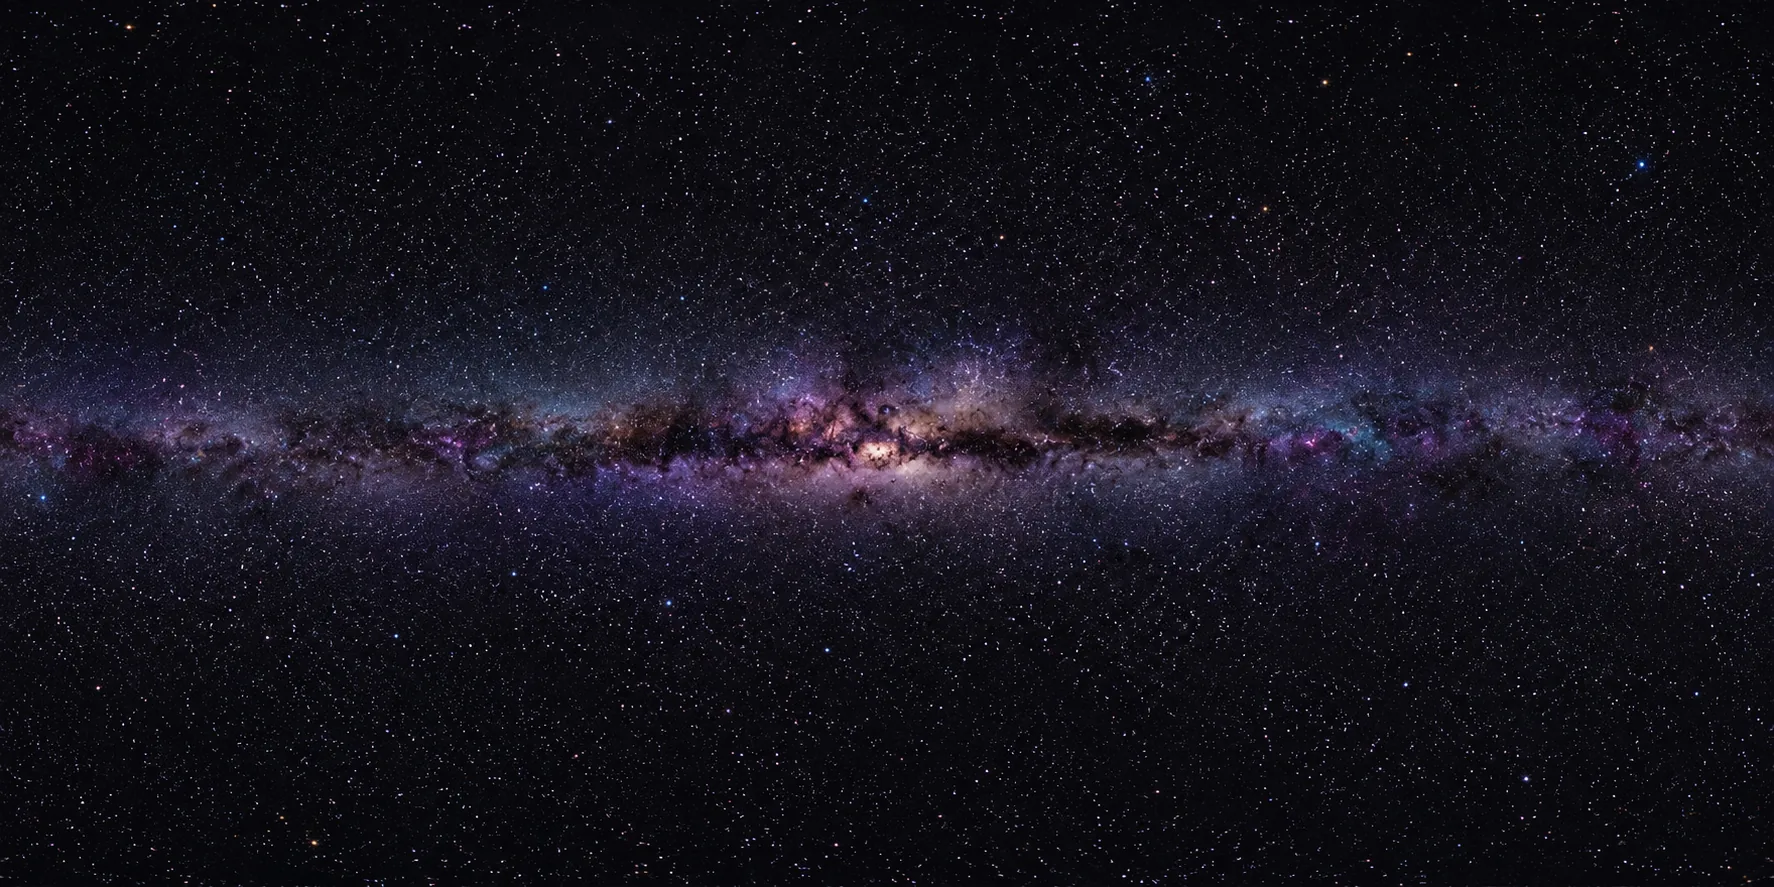
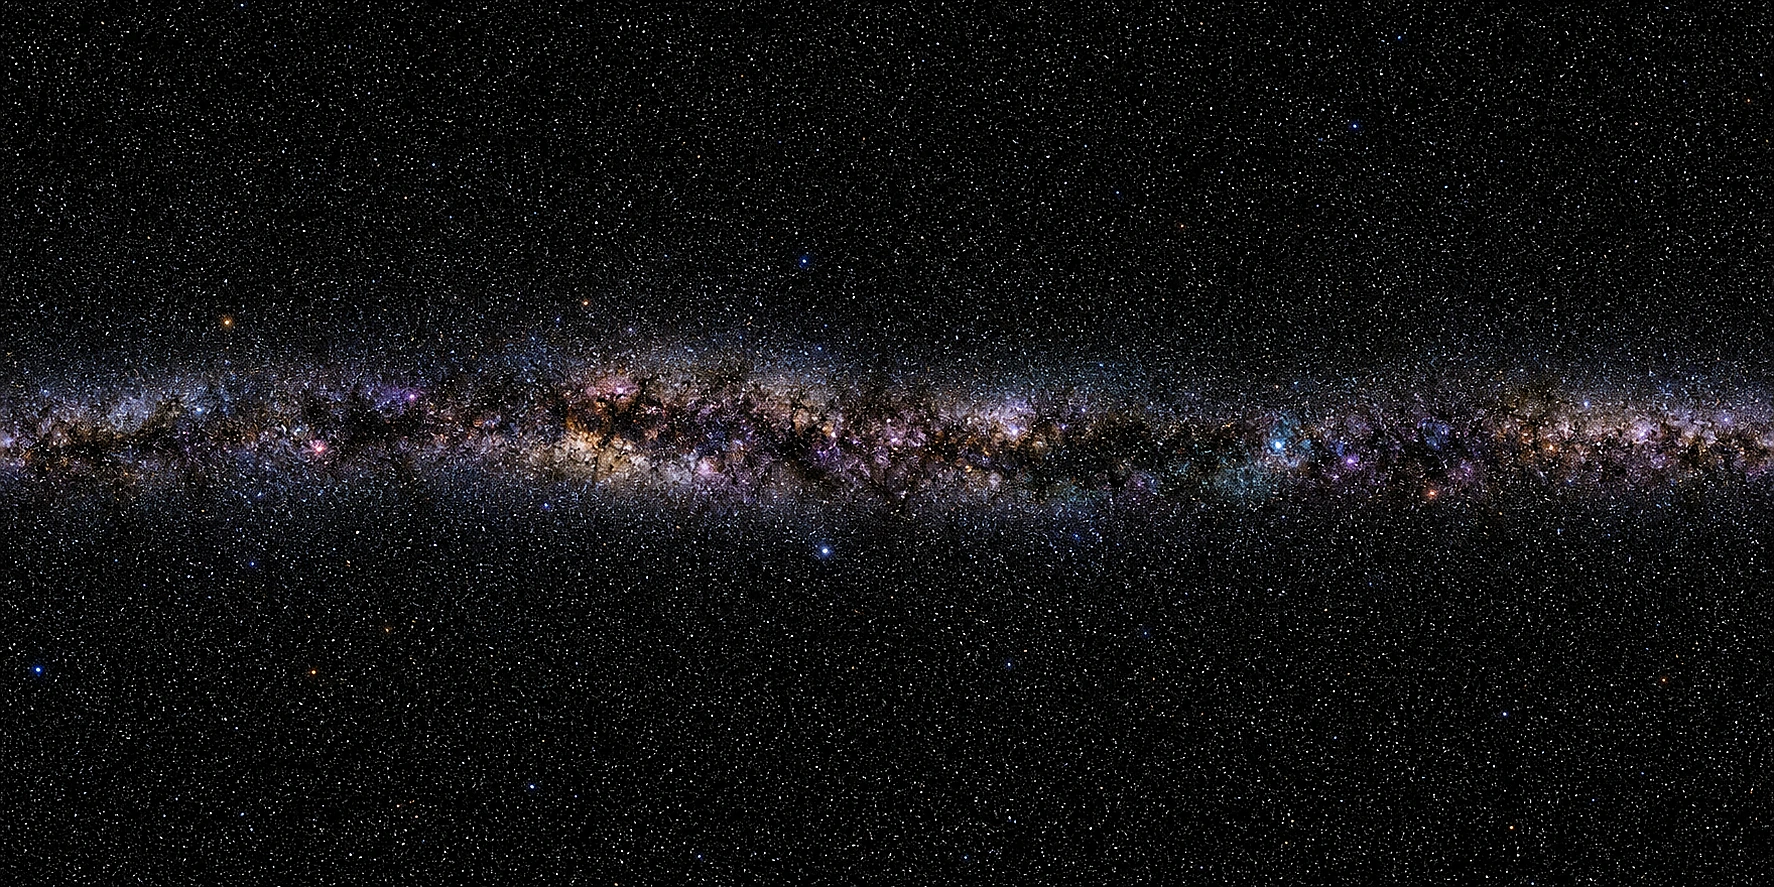
Sharper System background: new HD skybox + live pinpoint star layer
Denser astrophotography panorama (sharpened, gentler compression at
q92) plus 1600 crisp tinted point stars rendered at native display
resolution over it — texture blur no longer reads as the sky.

diff --git a/system3d.js b/system3d.js
@@ -113,6 +113,32 @@ function init() {
   sky.mapping = THREE.EquirectangularReflectionMapping;
   scene.background = sky;
 
+  /* crisp foreground stars rendered live over the panorama —
+     pinpoint-sharp at native display resolution, which no texture
+     stretched around a 360° sphere can match */
+  {
+    const N = 1600;
+    const pos = new Float32Array(N * 3);
+    const col = new Float32Array(N * 3);
+    const tint = [
+      [1.0, 1.0, 1.0], [0.85, 0.9, 1.0], [1.0, 0.92, 0.78], [0.8, 1.0, 0.95]
+    ];
+    for (let i = 0; i < N; i++) {
+      const v = new THREE.Vector3().randomDirection().multiplyScalar(300 + Math.random() * 150);
+      pos.set([v.x, v.y, v.z], i * 3);
+      const t = tint[(Math.random() * tint.length) | 0];
+      const b = 0.5 + Math.random() * 0.5;
+      col.set([t[0] * b, t[1] * b, t[2] * b], i * 3);
+    }
+    const g = new THREE.BufferGeometry();
+    g.setAttribute('position', new THREE.BufferAttribute(pos, 3));
+    g.setAttribute('color', new THREE.BufferAttribute(col, 3));
+    scene.add(new THREE.Points(g, new THREE.PointsMaterial({
+      vertexColors: true, size: 1.6, sizeAttenuation: false,
+      transparent: true, opacity: 0.95, depthWrite: false
+    })));
+  }
+
   /* ---------- sun ---------- */
   const sunMesh = new THREE.Mesh(
     new THREE.SphereGeometry(SUN.r, 48, 48),